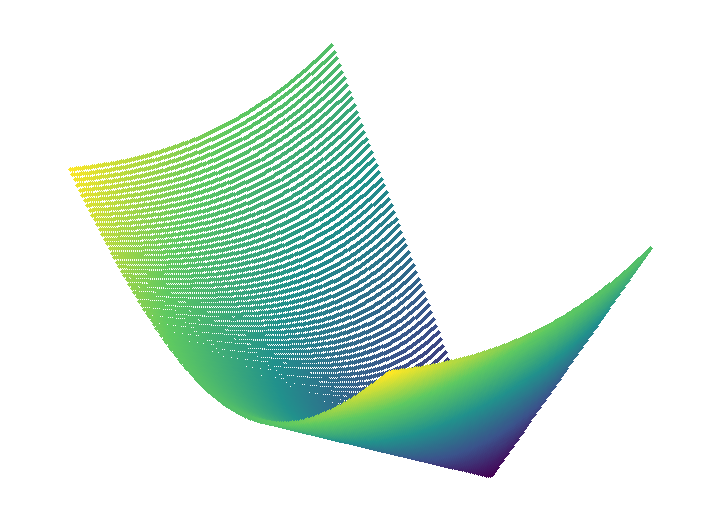
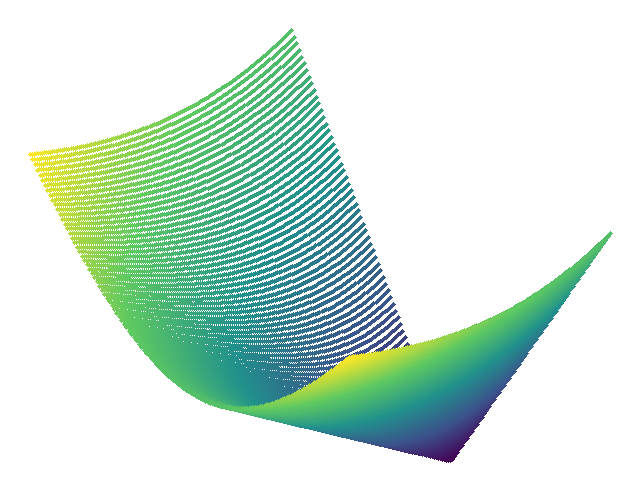
Fix README gallery rendering

Changed region(s): [[0.0312, 0.0611, 0.9672, 0.947]]

diff --git a/examples/gallery.py b/examples/gallery.py
@@ -174,7 +174,8 @@ def render_surface_image(example: DemoExample) -> NDArray[np.uint8]:
     )
     x, y = np.meshgrid(grid.real, grid.imag_norm)
     z = hviz.quaternion_norm(grid.values)
-    return point_surface_thumbnail(x, y, z, width=720, height=520)
+    image = point_surface_thumbnail(x, y, z, width=720, height=520)
+    return trim_white_border(image, padding=28)
 
 
 def _resample_range(axis_range: tuple[float, float, int], count: int) -> tuple[float, float, int]:
@@ -249,6 +250,19 @@ def point_surface_thumbnail(
     for index in order:
         draw_disc(image, int(flat_x[index]), int(flat_y[index]), 2, flat_colors[index])
     return image
+
+
+def trim_white_border(image: NDArray[np.uint8], *, padding: int) -> NDArray[np.uint8]:
+    mask = np.any(image < 250, axis=-1)
+    if not np.any(mask):
+        return image
+    rows = np.where(np.any(mask, axis=1))[0]
+    cols = np.where(np.any(mask, axis=0))[0]
+    top = max(0, int(rows[0]) - padding)
+    bottom = min(image.shape[0], int(rows[-1]) + padding + 1)
+    left = max(0, int(cols[0]) - padding)
+    right = min(image.shape[1], int(cols[-1]) + padding + 1)
+    return image[top:bottom, left:right]
 
 
 def draw_disc(image: NDArray[np.uint8], cx: int, cy: int, radius: int, color: NDArray[np.uint8]) -> None:

diff --git a/README.md b/README.md
@@ -54,23 +54,55 @@ python examples/gallery.py
 
 ### Identity: `q`
 
-| Slice domain coloring | Component panels |
-| --- | --- |
-| ![Quaternion identity slice domain coloring](docs/images/identity-slice.png)<br>Hue is output phase on the selected slice; brightness and rings show output norm. | ![Quaternion identity component panels](docs/images/identity-components.png)<br>Each panel is one output component; blue is negative, white is zero, red is positive. |
+#### Slice Domain Coloring
 
-| Magnitude and phase | 3D magnitude surface |
-| --- | --- |
-| ![Quaternion identity magnitude and phase panels](docs/images/identity-magnitude-phase.png)<br>Left is `||f(q)||`; right is phase using `Re(q)` versus `||Im(q)||`. | ![Quaternion identity magnitude surface](docs/images/identity-surface.png)<br>Height is `||f(q)||` over the same `Re(q)` and `||Im(q)||` grid. |
+<img src="docs/images/identity-slice.png" alt="Quaternion identity slice domain coloring" width="420">
+
+Hue is output phase on the selected slice; brightness and rings show output norm.
+
+#### Component Panels
+
+<img src="docs/images/identity-components.png" alt="Quaternion identity component panels" width="420">
+
+Each panel is one output component; blue is negative, white is zero, red is positive.
+
+#### Magnitude And Phase
+
+<img src="docs/images/identity-magnitude-phase.png" alt="Quaternion identity magnitude and phase panels" width="520">
+
+Left shows output norm. Right shows phase using real input versus imaginary-input norm.
+
+#### 3D Magnitude Surface
+
+<img src="docs/images/identity-surface.png" alt="Quaternion identity magnitude surface" width="520">
+
+Height is output norm over the same real-input and imaginary-input-norm grid.
 
 ### Quaternion tanh: `tanh(q)`
 
-| Slice domain coloring | Component panels |
-| --- | --- |
-| ![Quaternion tanh slice domain coloring](docs/images/quaternion-tanh-slice.png)<br>Hue changes with output phase; bright regions have larger `||tanh(q)||`. | ![Quaternion tanh component panels](docs/images/quaternion-tanh-components.png)<br>Shows which quaternion components are amplified, damped, or sign-flipped. |
+#### Slice Domain Coloring
 
-| Magnitude and phase | 3D magnitude surface |
-| --- | --- |
-| ![Quaternion tanh magnitude and phase panels](docs/images/quaternion-tanh-magnitude-phase.png)<br>Left shows saturation and poles in norm; right shows how phase bends. | ![Quaternion tanh magnitude surface](docs/images/quaternion-tanh-surface.png)<br>Peaks mark large `||tanh(q)||` values on the reduced quaternion grid. |
+<img src="docs/images/quaternion-tanh-slice.png" alt="Quaternion tanh slice domain coloring" width="420">
+
+Hue changes with output phase; brighter regions have larger output norm.
+
+#### Component Panels
+
+<img src="docs/images/quaternion-tanh-components.png" alt="Quaternion tanh component panels" width="420">
+
+Shows which quaternion components are amplified, damped, or sign-flipped.
+
+#### Magnitude And Phase
+
+<img src="docs/images/quaternion-tanh-magnitude-phase.png" alt="Quaternion tanh magnitude and phase panels" width="520">
+
+Left shows saturation and poles in norm. Right shows how phase bends.
+
+#### 3D Magnitude Surface
+
+<img src="docs/images/quaternion-tanh-surface.png" alt="Quaternion tanh magnitude surface" width="520">
+
+Peaks mark large output-norm values on the reduced quaternion grid.
 
 ## Quaternion Activation Examples
 